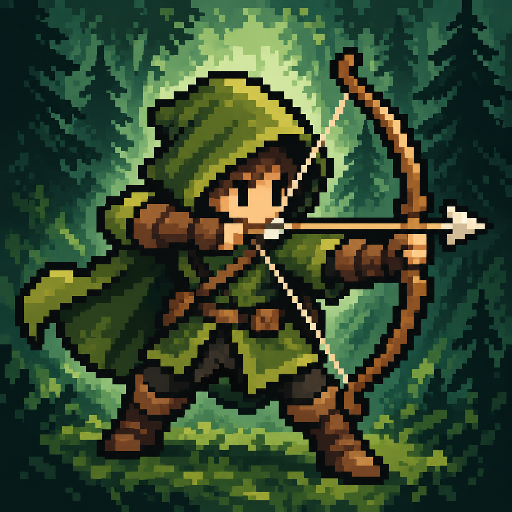
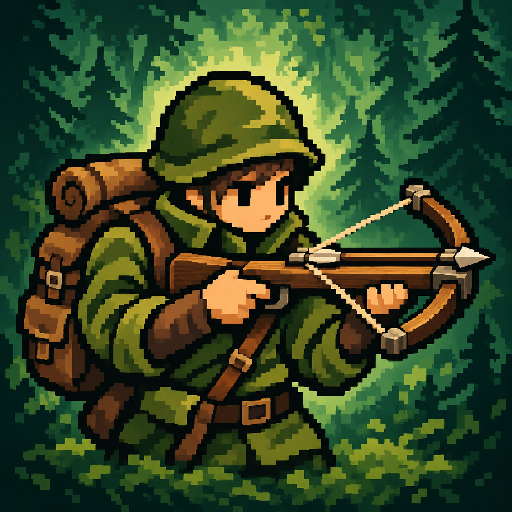
Refresh RuStore release 1.0.11 and listing media

diff --git a/Assets/Editor/YandexBuild.RuStore.cs b/Assets/Editor/YandexBuild.RuStore.cs
@@ -65,7 +65,6 @@ public static partial class YandexBuild
         PlayerSettings.Android.keyaliasPass = PlayerSettings.Android.keystorePass;
 
         const string iconPath = "Assets/UI/ForestGarrison/RuStoreIcon.png";
-        File.Copy("Publishing/Card/icon.png", iconPath, true);
         AssetDatabase.ImportAsset(iconPath, ImportAssetOptions.ForceSynchronousImport);
         var icon = AssetDatabase.LoadAssetAtPath<Texture2D>(iconPath);
         var sizes = PlayerSettings.GetIconSizesForTargetGroup(BuildTargetGroup.Android, IconKind.Any);

diff --git a/Publishing/RuStore/store-listing.md b/Publishing/RuStore/store-listing.md
@@ -4,32 +4,34 @@
 
 01.11.2026 по просьбе владельца публикация приостановлена до проверки нового мобильного UI. Версия 1.0.2 всё ещё ожидает модерацию; команды отзыва в кабинете не найдено, автоматическая публикация выключена. Для обновления создан и повторно открыт отдельный [черновик `2064924084`](https://console.rustore.ru/apps/2063776490/versions/2064924084/edit): сохранён production APK 1.0.3 / code 5, адрес сайта очищен, оставлен email поддержки, сохранены маркировки «жестокость» и «страх». Предпросмотр подтвердил обе маркировки и отсутствие сайта в контактах. Черновик на модерацию не отправлялся. Старые скриншоты показывают прежний UI и требуют замены перед новой отправкой. Новая сборка проверена и оставлена на телефоне; [результаты UI](mobile-ui-validation.md).
 
-**Название:** Последний солдат: другой мир
+10.11.2026 в том же черновике сохранён APK 1.0.11 (код 13) с новой иконкой. Сборка прошла [19 проверок APK](apk-validation.json) и запустилась в эмуляторе Android 11. Публикация ручная. Версия 1.0.2 отдельно имеет статус «Готова к публикации».
 
-**Краткое описание:** Защищай лагерь, улучшай героя и сражайся с волнами врагов и боссами.
+**Последний солдат: другой мир**
 
-**Полное описание:**
+Краткое описание — «Солдат с арбалетом против волн монстров. Выживи и победи боссов.»
 
-Солдат оказался в другом мире. Исследуй лагерь, готовь снаряжение и выходи на арену против волн врагов.
+### Полное описание
 
-Управляй героем сенсорным джойстиком, выбирай стрелы и режим стрельбы, используй щит, рывок и зелья. Зарабатывай монеты, покупай припасы у торговца и улучшай героя. Проходи обучение, открывай достижения и сражайся с боссами. Красная арена предлагает повышенную сложность и награды.
+Солдат в полевой форме оказался в другом мире. В лагере можно перевести дух и пополнить припасы. За порталом ждёт арена, где враги идут волнами.
 
-Играть можно без регистрации. Прогресс хранится на устройстве; облачного переноса сохранений нет. Внутриигровой магазин использует заработанные монеты, покупок за реальные деньги нет.
+Стреляй из арбалета, прикрывайся щитом и уходи рывком от атак. Ядовитые стрелы наносят урон со временем. Пробивные поражают несколько целей за выстрел. Собирай монеты с поверженных врагов и трать их у торговца на припасы и улучшения.
 
-Игра содержит рекламу. За просмотр видео можно получить бонусные монеты или продолжить бой после смерти. Награда выдаётся после подтверждения рекламного SDK; отмена просмотра до получения награды не даёт бонус. Для рекламы нужен интернет. Локальная игра доступна без сети.
+Сразись с Королём слизней, Ассасином и гигантским скорпионом Шаулой. На Красной арене враги сильнее, а награды выше.
 
-**Поддержка:** dudin1918@mail.ru.
+Это одиночный пиксельный экшен. Сенсорные кнопки и плашку ресурсов можно перетаскивать. Игра работает без регистрации и интернета, прогресс хранится на устройстве. Рекламное видео можно посмотреть по желанию за монеты или продолжение боя. Покупок за реальные деньги нет.
+
+Поддержка по адресу dudin1918@mail.ru.
 
 ## Поля перед отправкой
 
 - Тип/категория в форме: «Игра» / «Экшен». Покупки за реальные деньги: «Не используются».
-- Возраст/маркировки нового черновика: 12+, «жестокость» и «страх». Бой и гибель врагов обосновывают первую отметку; скелеты и фантастические боссы — дополнительную осторожную оценку «страх». Это оценка разработчика, окончательная проверка — у модерации. «Страх» не заменяет предупреждение о насилии. [Определения RuStore](https://www.rustore.ru/help/developers/publishing-and-verifying-apps/app-publication/new-version-app/content-warnings).
-- Иконка: `Publishing/Card/icon.png`, 512×512. Та же основа назначена Android-приложению.
-- Скриншоты: минимум три реальных кадра финального Android APK — бой, торговец, улучшения/достижения. Editor-кадры не выдавать за снимки телефона.
+- В черновике сохранены 12+, маркировка «жестокость» и пять поисковых тегов — «Игры на выживание», «Однопользовательская игра», «Офлайн», «Пиксельная графика», «Сражения». [Определения RuStore](https://www.rustore.ru/help/developers/publishing-and-verifying-apps/app-publication/new-version-app/content-warnings).
+- Иконка RuStore размером 512×512 лежит в `Assets/UI/ForestGarrison/RuStoreIcon.png`. Этот же файл использует Android-сборка.
+- В [галерее 1.0.11](Screenshots/1.0.11) по три кадра 1920×1080 для телефонов и планшетов, снятых в Android-эмуляторе. На планшетном профиле 4:3 в горизонтальной ориентации проверены меню, вход в игру и игровой HUD. Реальный планшет не проверялся.
+- Трейлер из карточки Яндекс Игр, 27 секунд, опубликован для всех пользователей VK и добавлен в поле видео черновика. В VK ролик воспроизводится, предпросмотр RuStore показал «Видео недоступно». [Трейлер](https://vkvideo.ru/video649775475_456240002).
 - Данные: локальный прогресс и технические данные рекламного SDK; игрового серверного аккаунта нет. В production manifest отсутствуют AD_ID, геолокация, контакты, микрофон, камера и доступ к пользовательским файлам. Это не подтверждает отсутствие передачи технических данных SDK. [Mobile Ads SDK 8](https://ads.yandex.com/helpcenter/ru/dev/android/app-privacy-android) и [AppMetrica](https://appmetrica.yandex.ru/docs/ru/data-security/google-data-safety) описывают настройки по умолчанию; в игре дополнительно выставлены `SetUserConsent(false)`, `SetAgeRestricted(true)`, `SetLocationTracking(false)`. 27.10 в черновике отмечены «Диагностика», «Отчеты об ошибках», «Другие данные о работе приложения» и «ID устройства или другие идентификаторы». Обоснование внутренних ID — `SDK-NOTICES.md`; отсутствие AD_ID само по себе не исключает другие идентификаторы.
 - SDK: Yandex Mobile Ads 8.6.0, AppMetrica и фактические транзитивные компоненты. Консоль показывает две рекламные интеграции: Yandex Mobile Ads и автоматически обнаруженную Google Mobile Ads (AdMob). Игра обращается к Yandex Mobile Ads; наличие автоматической отметки Google в консоли не подтверждает показ рекламы AdMob. В Gradle есть `play-services-ads-identifier` и `analytics-ad-revenue-admob-v23`, полный AdMob SDK в отчёте зависимостей не обнаружен. Платёжных SDK нет. Яндекс LoginSDK исключён.
 - Контакт нового черновика: только `dudin1918@mail.ru`; поля сайта и сообществ пустые. GitHub не указан способом связи. Политика остаётся доступной в настройках игры, локально без сети и по [публичной ссылке](https://github.com/Joe6355/Last-Soldier-Another-World/blob/codex/rustore-release/Publishing/RuStore/privacy-policy.md). Оператор данных — Дудин Сергей. Кабинет издателя — «Отченаш Сергей», подтверждён владельцем.
-- Комментарий модератору: запуск через «Играть»; видео — на экране смерти и у торговца во вкладке «Бонусы»; сохранения локальные. Указывать только сценарии, проверенные в финальном APK.
-- Сохранённый комментарий (160/180): «Без регистрации, сохранения локальные. Видеобонус: экран смерти и торговец → «Бонусы». РСЯ в тестовом режиме до публикации. Политика и поддержка — в настройках.»
+- Сохранённый комментарий модератору — «Игра без регистрации, прогресс локальный. Видеобонус можно запросить у торговца во вкладке „Бонусы“ и на экране поражения. Для показа рекламы нужен интернет». У 1.0.11 в эмуляторе показался рекламный баннер. Начисление видеобонуса в этой сборке повторно не проверялось.
 
 Требования к иконке и минимуму трёх скриншотов: [официальная инструкция RuStore](https://www.rustore.ru/help/developers/publishing-and-verifying-apps/app-publication).
